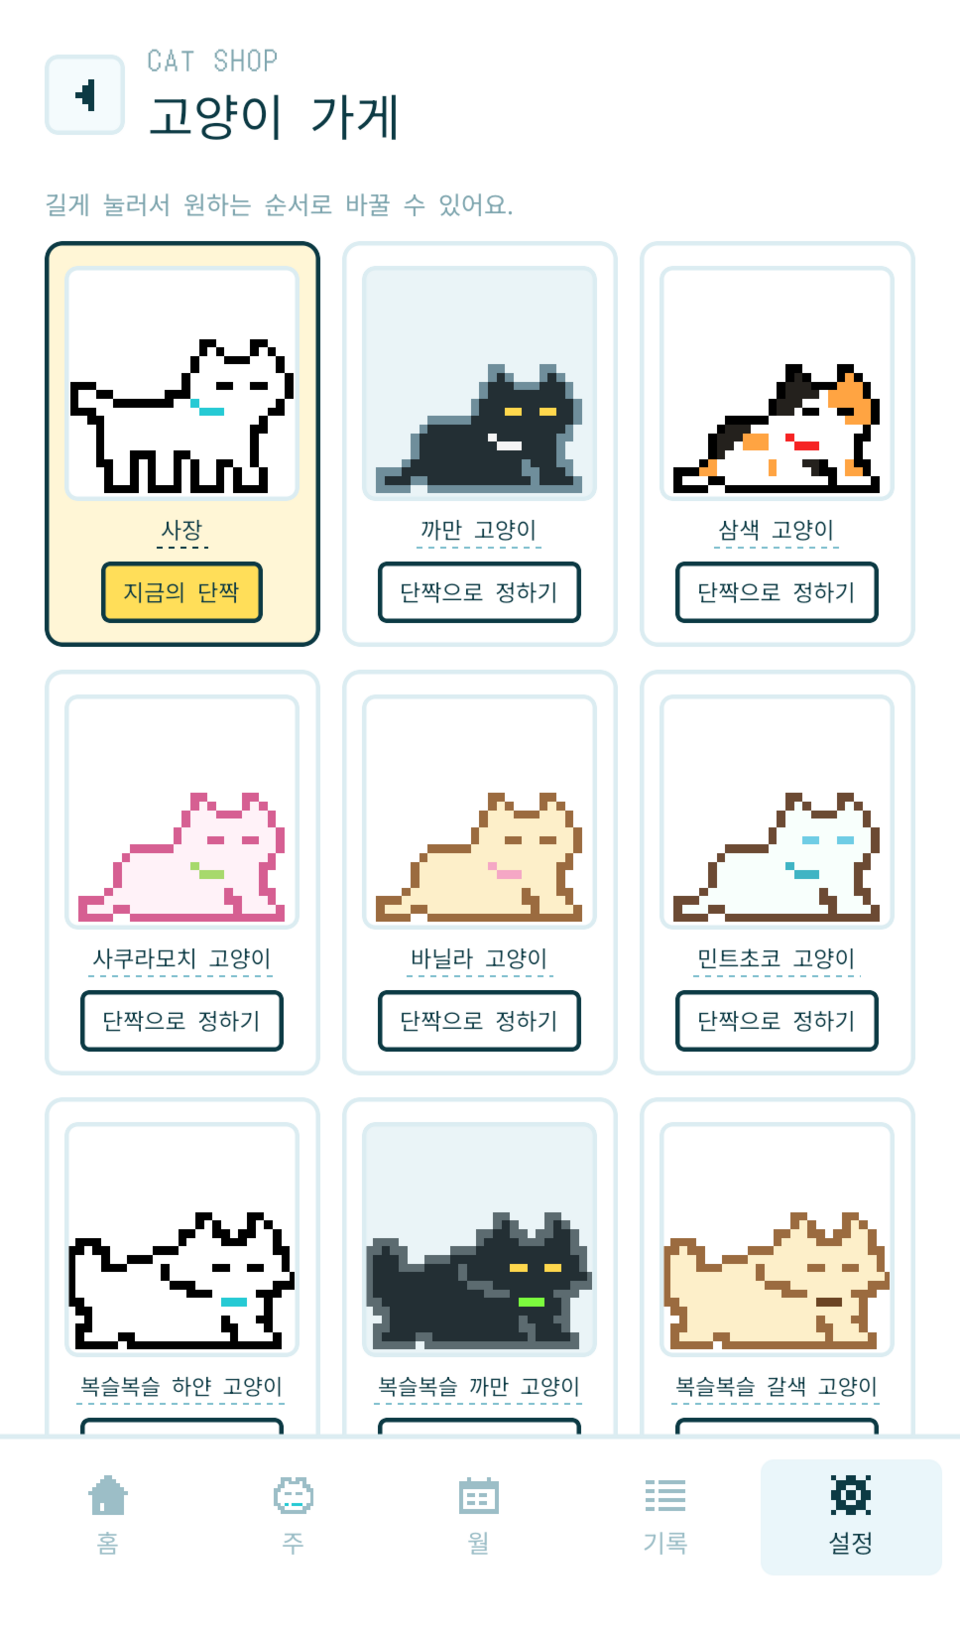
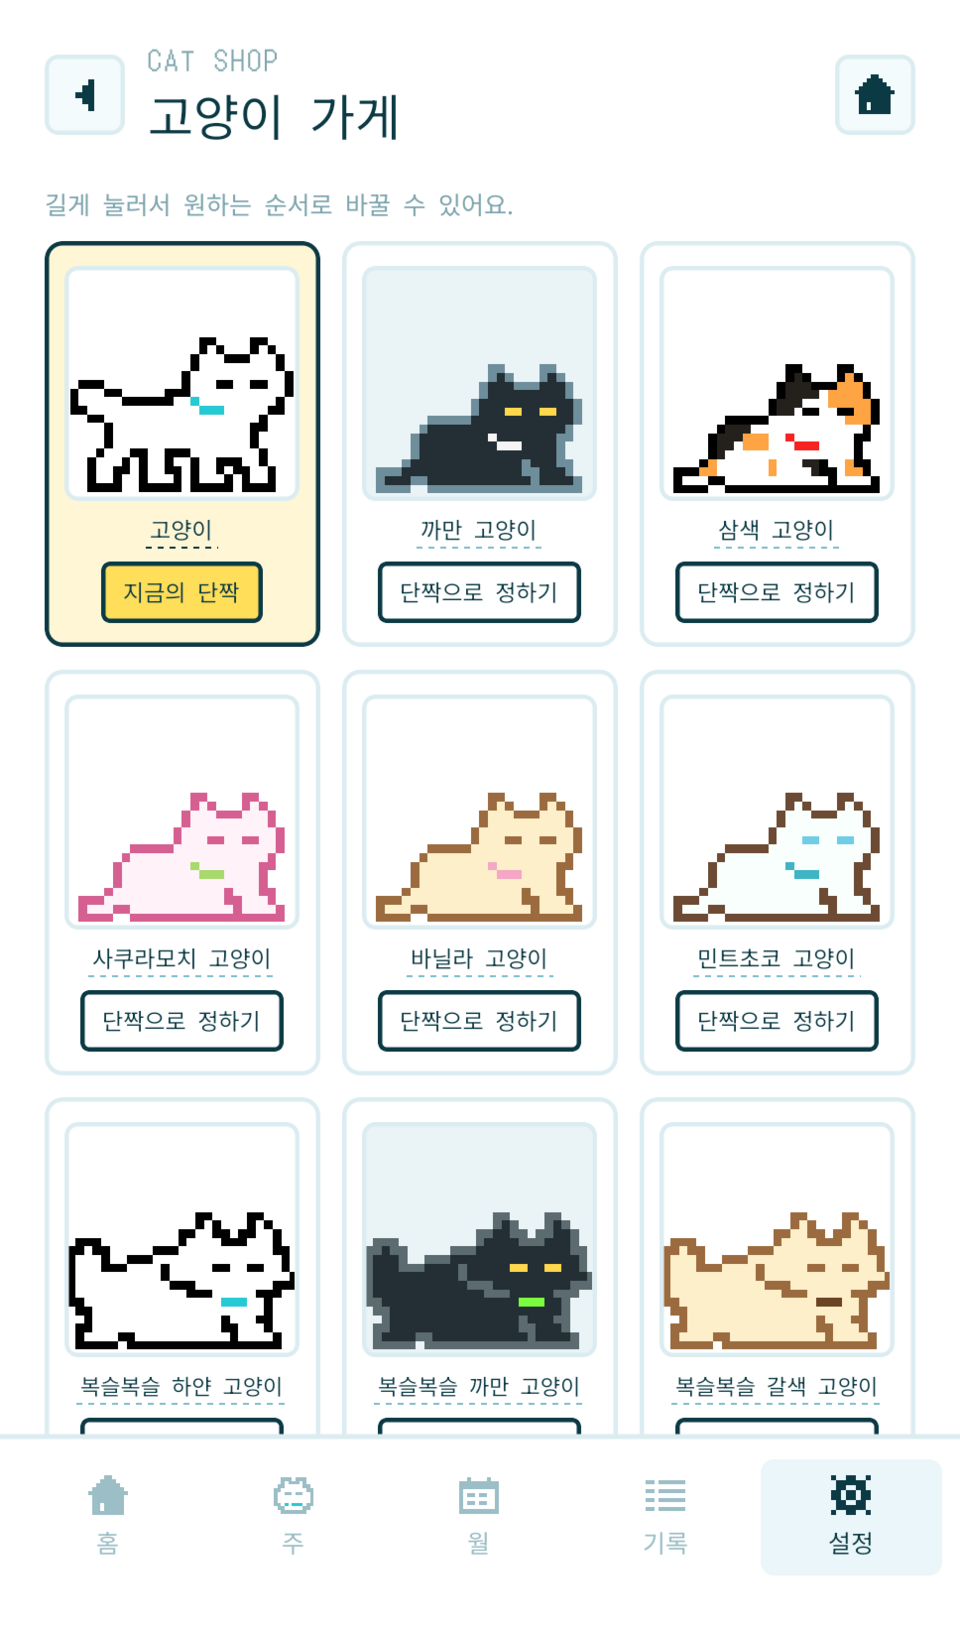
LP のねこ屋さんの画像を 2.5.0 のストア画像から作り直す（4 言語）
- 右上に「じぶんだけのねこ」への家のマークが入った 2.5.0（断面 608e3e5）のねこ屋さんに差し替え
- ja は 2.5.0 の ja final-1 / final-4 から rebuild-lp-screenshots.sh でホームとねこ屋さんを再生成
- en / ko / zh-TW はストア撮影素材 final-4 を sources に置き、render-lp-localized-screenshots.mjs --screens=shop で再レンダー
- 反映は両ストアで 2.5.0 が公開されてから（QA と同じ）

diff --git a/docs/lp-screenshots/README.md b/docs/lp-screenshots/README.md
@@ -74,3 +74,12 @@ npm run prepare:lp-screenshot-demo -- en docs/lp-screenshots/demo/en-week-2026-0
    公式 PNG の透明余白は言語で違う（en は四辺 41px、ko / zh-TW は上下 29px・左右 0）ので、`index.html` の `.store-badges` は
    言語ごとに実測値で打ち消している。実測は `npm run measure:lp-badges`、係数と実測の一致は `npm test`
    （`scripts/lib/lp-badge-padding.test.mjs`）、見た目の高さと間隔の一致は `npm run test:browser` が検査する。
+
+## 2026-10-19: 2.5.0 のねこ屋さんを差し替え
+
+2.5.0 でねこ屋さんの右上に「じぶんだけのねこ」への家のマークが入ったので、ねこ屋さんの画像だけ作り直した。
+`sources/<locale>/screen-shop.png` は **ストア画像の撮影素材**（`~/git/nekokintai` の `docs/store/screenshots/2.5.0/<locale>/sources/final-4.png`。
+fixture データ・既定順・prod-internal の APK `608e3e5`）をそのまま置き、`npm run render:lp-localized-screenshots -- en ko zh-TW --screens=shop` で作った。
+ねこ屋さんは記録データに依らない画面なので、LP 用デモデータで撮り直していない。ホーム・週・月は 2.3.0 のまま。
+日本語は `scripts/rebuild-lp-screenshots.sh <2.5.0 の ja final-1/4 を置いた app_root>` で `screen-home.png` / `screen-shop.png` を作り直した。
+本番への反映は両ストアで 2.5.0 が公開されてから（QA と同じ `qa/2.5.0` ブランチ）。
